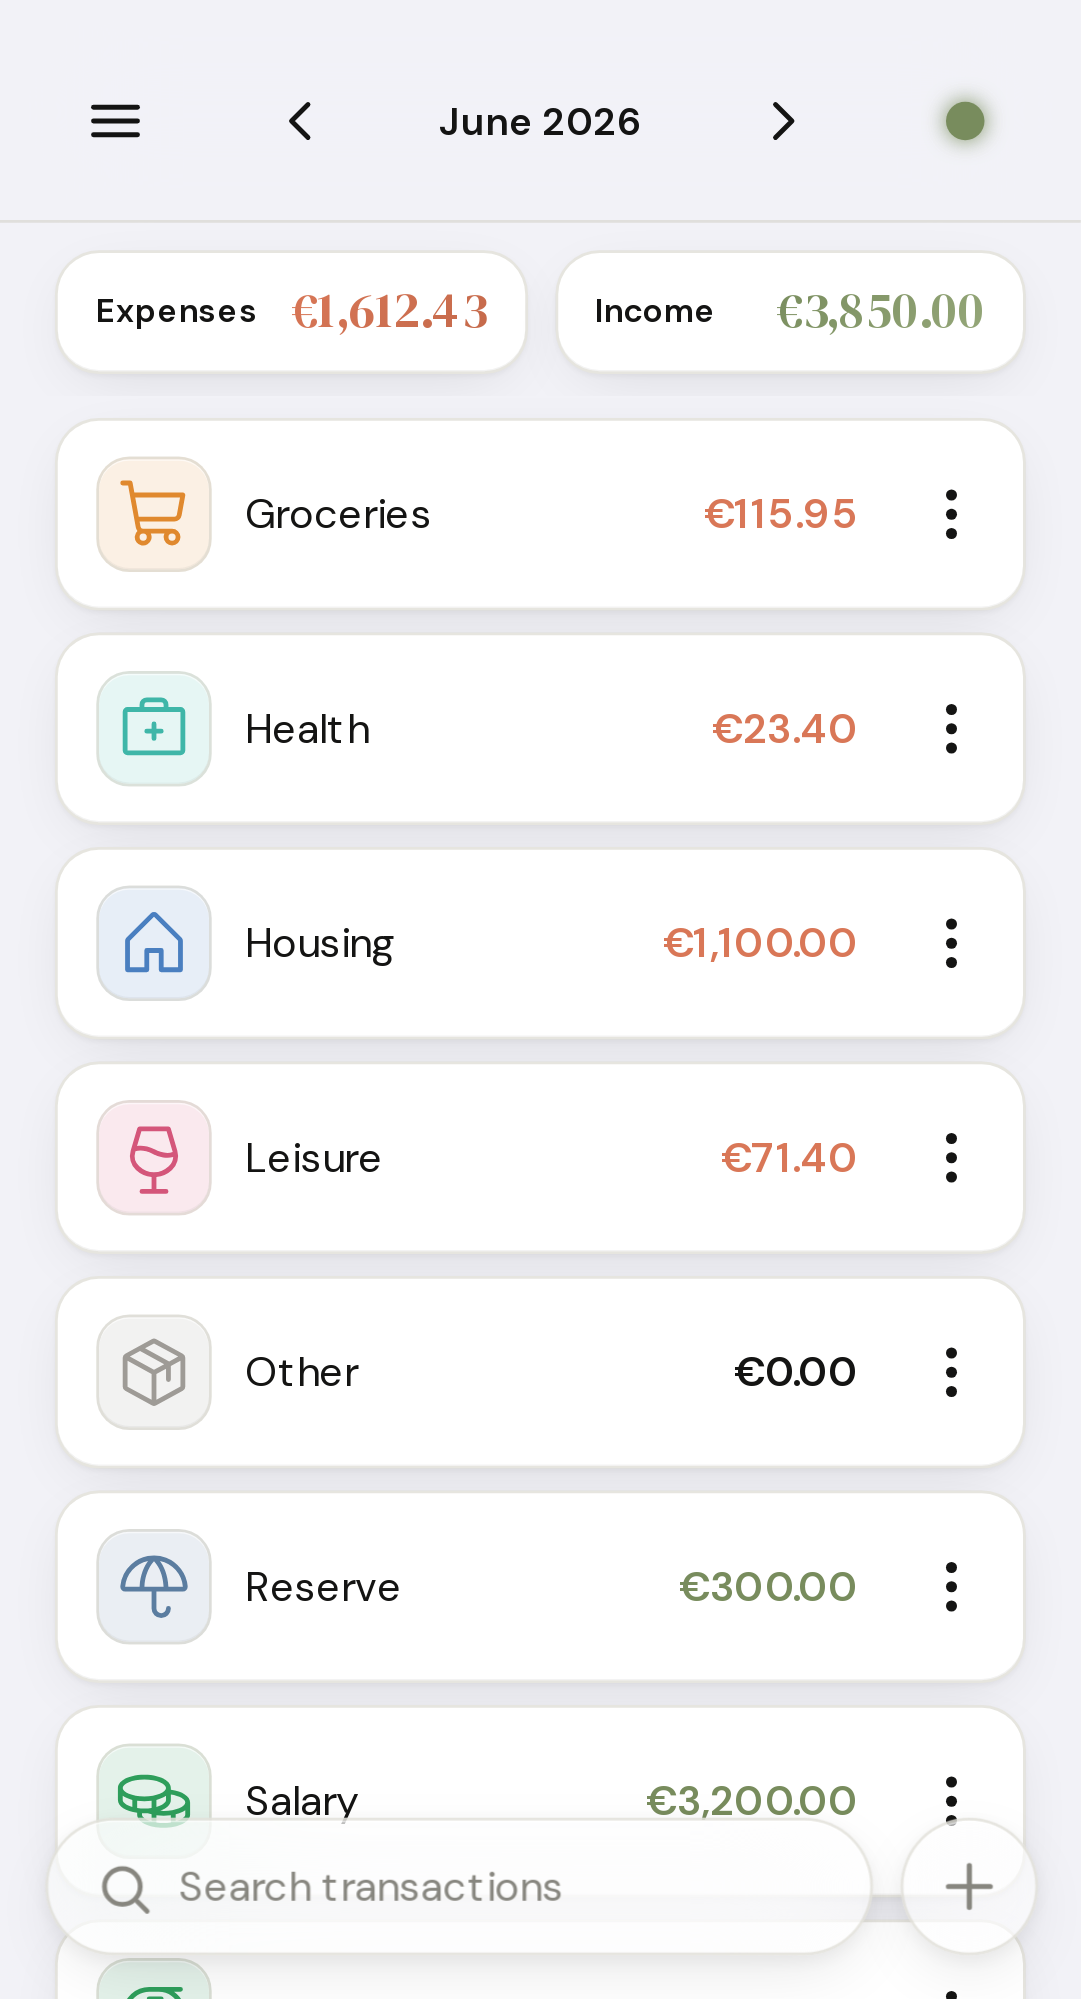
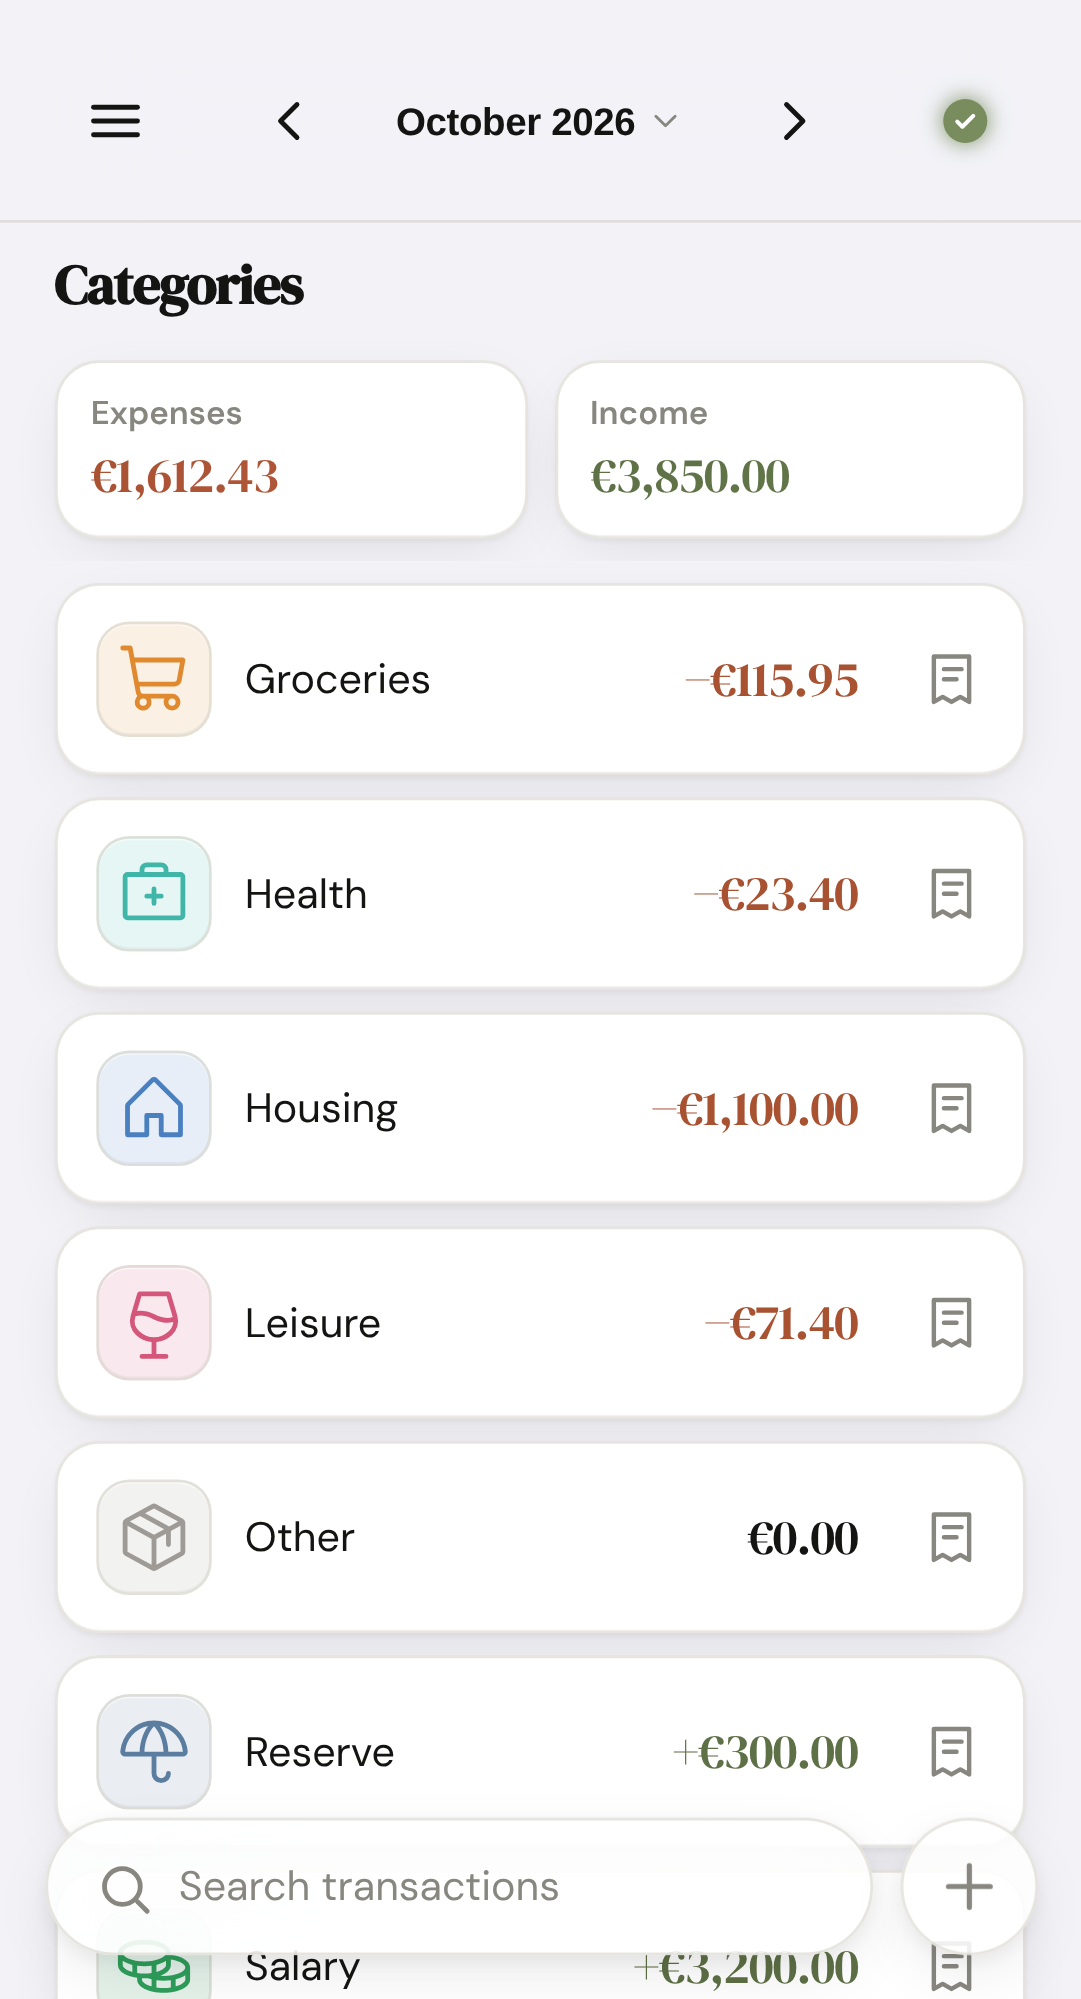
docs: refresh README screenshots
The gallery predated the recent design changes (full-screen phone drawer,
summary cards, view titles, sync badge). Regenerated all seven shots with
tools/demo.

The demo tooling needed two fixes to do that:
- seed.py dated its data around June 2026, so the current month's ledger
  was empty; rows and rule/goal start dates are now relative to the month
  the seeder runs in.
- capture.mjs set the theme before the boot had reconciled the server-side
  settings, so the desktop shot came out light; it now waits for
  appState.boot.ready and network idle.

Claude-Session: https://claude.ai/code/session_01CbFu1qwN2MKjVqFveFpwJQ

diff --git a/tools/demo/seed.py b/tools/demo/seed.py
@@ -22,6 +22,7 @@ from __future__ import annotations
 
 import os
 import sys
+from datetime import date, datetime
 
 import httpx
 
@@ -31,33 +32,61 @@ PASSWORD = os.environ.get("ADMIN_PASSWORD", "Demo-Account-2026!")
 LOCALE = "en-GB"
 CURRENCY = "EUR"
 
-# date;type;amount;description;category;tags — categories and tags are
-# auto-created by the import. Dated around "today" (June 2026) so the ledger's
-# default month view is populated; May rows give the reports range some depth.
-DEMO_CSV = """date;type;amount;description;category;tags
-2026-05-01;in;3200.00;Salary;Salary;
-2026-05-02;out;1100.00;Monthly rent;Housing;fixed
-2026-05-05;out;72.10;Supermarket;Groceries;
-2026-05-09;out;55.00;Restaurant;Leisure;eating-out
-2026-05-15;out;60.00;Fuel;Transport;
-2026-05-20;out;14.99;Music streaming;Subscriptions;fixed
-2026-06-01;in;3200.00;Salary;Salary;
-2026-06-01;out;1100.00;Monthly rent;Housing;fixed
-2026-06-02;in;200.00;Holiday saving;Savings;
-2026-06-02;out;64.20;Supermarket;Groceries;
-2026-06-03;in;300.00;Buffer top-up;Reserve;
-2026-06-03;out;19.99;Mobile plan;Subscriptions;fixed
-2026-06-04;out;78.50;Electricity;Utilities;fixed
-2026-06-05;out;42.80;Dinner out;Leisure;eating-out
-2026-06-06;out;61.30;Fuel;Transport;
-2026-06-07;out;12.99;Video streaming;Subscriptions;fixed
-2026-06-08;out;51.75;Supermarket;Groceries;
-2026-06-09;in;150.00;Holiday saving;Savings;
-2026-06-09;out;23.40;Pharmacy;Health;
-2026-06-10;out;89.90;New jacket;Shopping;
-2026-06-11;out;39.00;Transport pass;Transport;
-2026-06-12;out;28.60;Coffee & lunch;Leisure;eating-out
-"""
+# (month offset, day, type, amount, description, category, tags). Dated
+# relative to the month the seeder runs in, so the ledger's default view (the
+# current month) is always populated; last month's rows give the reports some
+# depth. Categories and tags are auto-created by the CSV import.
+DEMO_ROWS = [
+    (-1, 1, "in", "3200.00", "Salary", "Salary", ""),
+    (-1, 2, "out", "1100.00", "Monthly rent", "Housing", "fixed"),
+    (-1, 5, "out", "72.10", "Supermarket", "Groceries", ""),
+    (-1, 9, "out", "55.00", "Restaurant", "Leisure", "eating-out"),
+    (-1, 15, "out", "60.00", "Fuel", "Transport", ""),
+    (-1, 20, "out", "14.99", "Music streaming", "Subscriptions", "fixed"),
+    (0, 1, "in", "3200.00", "Salary", "Salary", ""),
+    (0, 1, "out", "1100.00", "Monthly rent", "Housing", "fixed"),
+    (0, 2, "in", "200.00", "Holiday saving", "Savings", ""),
+    (0, 2, "out", "64.20", "Supermarket", "Groceries", ""),
+    (0, 3, "in", "300.00", "Buffer top-up", "Reserve", ""),
+    (0, 3, "out", "19.99", "Mobile plan", "Subscriptions", "fixed"),
+    (0, 4, "out", "78.50", "Electricity", "Utilities", "fixed"),
+    (0, 5, "out", "42.80", "Dinner out", "Leisure", "eating-out"),
+    (0, 6, "out", "61.30", "Fuel", "Transport", ""),
+    (0, 7, "out", "12.99", "Video streaming", "Subscriptions", "fixed"),
+    (0, 8, "out", "51.75", "Supermarket", "Groceries", ""),
+    (0, 9, "in", "150.00", "Holiday saving", "Savings", ""),
+    (0, 9, "out", "23.40", "Pharmacy", "Health", ""),
+    (0, 10, "out", "89.90", "New jacket", "Shopping", ""),
+    (0, 11, "out", "39.00", "Transport pass", "Transport", ""),
+    (0, 12, "out", "28.60", "Coffee & lunch", "Leisure", "eating-out"),
+]
+
+
+def _today() -> date:
+    # Local calendar day — the ledger's "current month" is the viewer's.
+    return datetime.now().astimezone().date()
+
+
+def _month_start(offset: int) -> date:
+    """First day of the month `offset` months from the current one."""
+    today = _today()
+    y, m = divmod(today.year * 12 + today.month - 1 + offset, 12)
+    return date(y, m + 1, 1)
+
+
+def _day(offset: int, day: int) -> str:
+    # Never in the future: on an early day of the month the current month's
+    # rows collapse onto today instead of showing as upcoming bookings.
+    d = _month_start(offset).replace(day=day)
+    return min(d, _today()).isoformat()
+
+
+def demo_csv() -> str:
+    lines = ["date;type;amount;description;category;tags"]
+    for off, day, typ, amount, desc, cat, tags in DEMO_ROWS:
+        lines.append(f"{_day(off, day)};{typ};{amount};{desc};{cat};{tags}")
+    return "\n".join(lines) + "\n"
+
 
 # name -> (icon id from the category sprite, hex colour). Applied after import
 # so the auto-created categories aren't all the grey "package" default.
@@ -82,7 +111,7 @@ GOALS = [
         "category": "Savings",
         "initial_amount": "0.00",
         "target_amount": "2000.00",
-        "start_date": "2026-01-01",
+        "start_date": _month_start(0).replace(month=1).isoformat(),
         "icon": "airplane",
         "color": "#d4567a",
     },
@@ -92,13 +121,13 @@ GOALS = [
         "category": "Reserve",
         "initial_amount": "1200.00",
         "target_amount": "5000.00",
-        "start_date": "2026-01-01",
+        "start_date": _month_start(0).replace(month=1).isoformat(),
         "icon": "umbrella",
         "color": "#5b7da0",
     },
 ]
 
-# Per-category spending caps. Amounts chosen against the demo June spend so the
+# Per-category spending caps. Amounts chosen against the demo month's spend so the
 # bars show a spread — Groceries/Leisure comfortably within, Subscriptions just
 # over (the red over-budget state), and Transport on a quarterly period.
 BUDGETS = [
@@ -108,8 +137,8 @@ BUDGETS = [
     {"category": "Transport", "amount": "400.00", "frequency": "quarterly"},
 ]
 
-# All start in the (near) future so they populate the recurring view as
-# upcoming bookings without materializing into the demo month.
+# All start next month so they populate the recurring view as upcoming
+# bookings without materializing into the demo month.
 RECURRING_RULES = [
     {
         "name": "Salary",
@@ -120,7 +149,7 @@ RECURRING_RULES = [
         "frequency": "monthly",
         "interval": 1,
         "day_of_month": 1,
-        "start_date": "2026-07-01",
+        "start_date": _month_start(1).isoformat(),
     },
     {
         "name": "Rent",
@@ -131,7 +160,7 @@ RECURRING_RULES = [
         "frequency": "monthly",
         "interval": 1,
         "day_of_month": 1,
-        "start_date": "2026-07-01",
+        "start_date": _month_start(1).isoformat(),
         "tags": ["fixed"],
     },
     {
@@ -143,7 +172,7 @@ RECURRING_RULES = [
         "frequency": "monthly",
         "interval": 1,
         "day_of_month": 5,
-        "start_date": "2026-07-05",
+        "start_date": _month_start(1).replace(day=5).isoformat(),
         "tags": ["fixed"],
     },
     {
@@ -155,7 +184,7 @@ RECURRING_RULES = [
         "frequency": "monthly",
         "interval": 1,
         "day_of_month": 1,
-        "start_date": "2026-07-01",
+        "start_date": _month_start(1).isoformat(),
         "tags": ["fixed"],
     },
 ]
@@ -193,7 +222,7 @@ class Seeder:
     def import_transactions(self) -> dict:
         r = self._c.post(
             "/api/import/csv",
-            files={"file": ("demo.csv", DEMO_CSV.encode("utf-8"), "text/csv")},
+            files={"file": ("demo.csv", demo_csv().encode("utf-8"), "text/csv")},
             headers=self._headers(),
         )
         r.raise_for_status()

diff --git a/tools/demo/README.md b/tools/demo/README.md
@@ -36,7 +36,8 @@ Needs `httpx` (already a backend dependency). On first run it creates the admin
 python tools/demo/seed.py          # honours BASE_URL / ADMIN_USERNAME / ADMIN_PASSWORD
 ```
 
-This imports ~2 months of transactions (auto-creating + styling categories and
+This imports ~2 months of transactions (dated relative to the current month,
+so the ledger's default view is always populated) (auto-creating + styling categories and
 tags), then adds two savings goals, four recurring rules and four per-category
 budgets.
 
